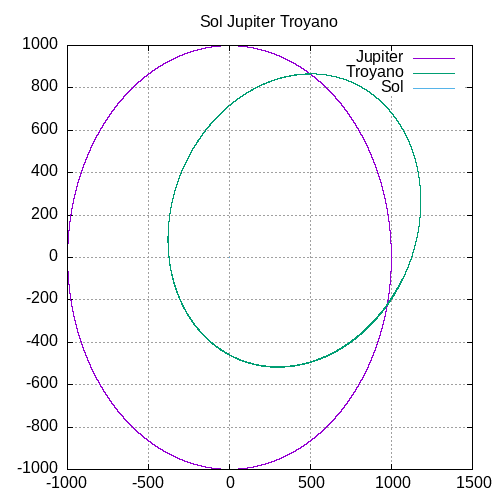
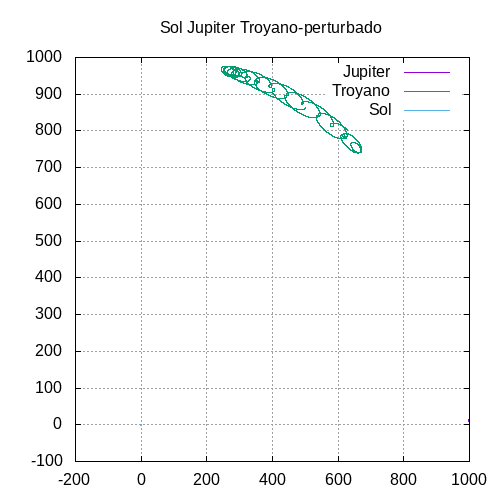
Coreccion matrices de rot para los puntos necesarios. Las gráficas ya dan perfectas

diff --git a/Taller1/Problema3/Sistema_Sol_Jupiter_Troyano.cpp b/Taller1/Problema3/Sistema_Sol_Jupiter_Troyano.cpp
@@ -31,9 +31,9 @@ const double Chi    = -0.6626458266981849e-1;
 const double Coeficiente1 =(1-2*Lambda)/2;
 const double Coeficiente2 =1-2*(Chi+Zeta);
 
-// Clases
+/*/ Clases
 class Cuerpo;
-class Colisionador;
+class Colisionador;*/
 int main(){
   Cuerpo Planeta[N];
   Colisionador Newton;
@@ -41,9 +41,10 @@ int main(){
   double theta=M_PI/3;
   double M=m1+m2, x1=-m2*r/M, x2=m1*r/M, x3=x2*cos(theta),y3=x2*sin(theta);
   double omega = sqrt(G*M/pow(r,3.0)), T=2*M_PI/omega, V1=omega*x1, V2=omega*x2;
-  double Vx3=-V2*sin(theta), Vy3=V1*cos(theta);
+  //double Vx3=-V2*cos((M_PI/2)-theta), Vy3=V2*sin((M_PI/2)-theta); //otra forma de verlo
+  double Vx3=-V2*sin(theta), Vy3=V2*cos(theta);
   double t, dt=0.01;
-  double tmax=1.1*T;
+  double tmax=21.1*T;
   double tdibujo, tcuadro=T/100;
   int i;
   std::ofstream outfile;
@@ -54,28 +55,35 @@ int main(){
   Planeta[1].Inicie(x2, 0,0,  0, V2,0,m2,10.0); // Júpiter
   Planeta[2].Inicie(x3,y3,0,Vx3,Vy3,0,m3, 1.0); // Planeta Troyano
 
-  double xrotado_0= Planeta[0].Getx()*cos(omega*t)+Planeta[0].Gety()*sin(omega*t);
-  double yrotado_0=-Planeta[0].Getx()*sin(omega*t)+Planeta[0].Gety()*cos(omega*t);
 
-  double xrotado_1= Planeta[1].Getx()*cos(omega*t)+Planeta[1].Gety()*sin(omega*t);
-  double yrotado_1=-Planeta[1].Getx()*sin(omega*t)+Planeta[1].Gety()*cos(omega*t);
-
-  double xrotado_2= Planeta[2].Getx()*cos(omega*t)+Planeta[2].Gety()*sin(omega*t);
-  double yrotado_2=-Planeta[2].Getx()*sin(omega*t)+Planeta[2].Gety()*cos(omega*t);
-  
   for(t=0,tdibujo=0; t<tmax; t+=dt, tdibujo+=dt){
+
+    double xrotado_0= Planeta[0].Getx()*cos(omega*t)+Planeta[0].Gety()*sin(omega*t);
+    double yrotado_0=-Planeta[0].Getx()*sin(omega*t)+Planeta[0].Gety()*cos(omega*t);
+
+    double xrotado_1= Planeta[1].Getx()*cos(omega*t)+Planeta[1].Gety()*sin(omega*t);
+    double yrotado_1=-Planeta[1].Getx()*sin(omega*t)+Planeta[1].Gety()*cos(omega*t);
+
+    double xrotado_2= Planeta[2].Getx()*cos(omega*t)+Planeta[2].Gety()*sin(omega*t);
+    double yrotado_2=-Planeta[2].Getx()*sin(omega*t)+Planeta[2].Gety()*cos(omega*t);
+
+    //Opcional para graficar en sistema de referencia inercial
+    /*outfile<<Planeta[0].Getx()<<" "<<Planeta[0].Gety()<<" "
+           <<Planeta[1].Getx()<<" "<<Planeta[1].Gety()<<" "
+           <<Planeta[2].Getx()<<" "<<Planeta[2].Gety()<<std::endl;*/
+
     outfile<<xrotado_0<<" "<<yrotado_0<<" "
 	   <<xrotado_1<<" "<<yrotado_1<<" "
 	   <<xrotado_2<<" "<<yrotado_2<<std::endl;
     // Haga el movimiento y los calculos por PEFRL
-    for(i=0;i<N;i++) Planeta[i].Mueva_r(dt, Zeta);            // 1 
+    for(i=0;i<N;i++) Planeta[i].Mueva_r(dt, Zeta);            // 1
     Newton.CalculeFuerza(Planeta,N,G);
     for(i=0;i<N;i++) Planeta[i].Mueva_v(dt,Coeficiente1);     // 2
     for(i=0;i<N;i++) Planeta[i].Mueva_r(dt, Chi);             // 3
-    Newton.CalculeFuerza(Planeta,N,G);     
+    Newton.CalculeFuerza(Planeta,N,G);
     for(i=0;i<N;i++) Planeta[i].Mueva_v(dt,Lambda);           // 4
     for(i=0;i<N;i++) Planeta[i].Mueva_r(dt,Coeficiente2);     // 5
-    Newton.CalculeFuerza(Planeta,N,G);     
+    Newton.CalculeFuerza(Planeta,N,G);
     for(i=0;i<N;i++) Planeta[i].Mueva_v(dt,Lambda);           // 4
     for(i=0;i<N;i++) Planeta[i].Mueva_r(dt, Chi);             // 3
     Newton.CalculeFuerza(Planeta,N,G);

diff --git a/Taller1/Problema3/Sistema_Sol_Jupiter_Perturbado_Troyano_Periodos.cpp b/Taller1/Problema3/Sistema_Sol_Jupiter_Perturbado_Troyano_Periodos.cpp
@@ -46,7 +46,7 @@ int main(){
   int i;
   std::ofstream outfile;
 
-  outfile.open("S-J-T_perturbated.dat");
+  outfile.open("S-J-T_perturbated_periodos.dat");
 
   Planeta[0].Inicie(x1, 0,0,  0, V1,0,m1,97.3); // Sol
   Planeta[1].Inicie(x2, 0,0,  0, V2,0,m2,10.0); // Júpiter
@@ -64,15 +64,8 @@ int main(){
     double xrotado_2= Planeta[2].Getx()*cos(omega*t)+Planeta[2].Gety()*sin(omega*t);
     double yrotado_2=-Planeta[2].Getx()*sin(omega*t)+Planeta[2].Gety()*cos(omega*t);
 
-    //Opcional para graficar en sistema de referencia inercial
-    /*outfile<<Planeta[0].Getx()<<" "<<Planeta[0].Gety()<<" "
-           <<Planeta[1].Getx()<<" "<<Planeta[1].Gety()<<" "
-           <<Planeta[2].Getx()<<" "<<Planeta[2].Gety()<<std::endl;*/
+    outfile<<xrotado_2<<" "<<t<<std::endl;
 
-    outfile<<xrotado_0<<" "<<yrotado_0<<" "
-	   <<xrotado_1<<" "<<yrotado_1<<" "
-	   <<xrotado_2<<" "<<yrotado_2<<std::endl;
-     
     // Haga el movimiento y los calculos por PEFRL
     for(i=0;i<N;i++) Planeta[i].Mueva_r(dt, Zeta);            // 1
     Newton.CalculeFuerza(Planeta,N,G);
